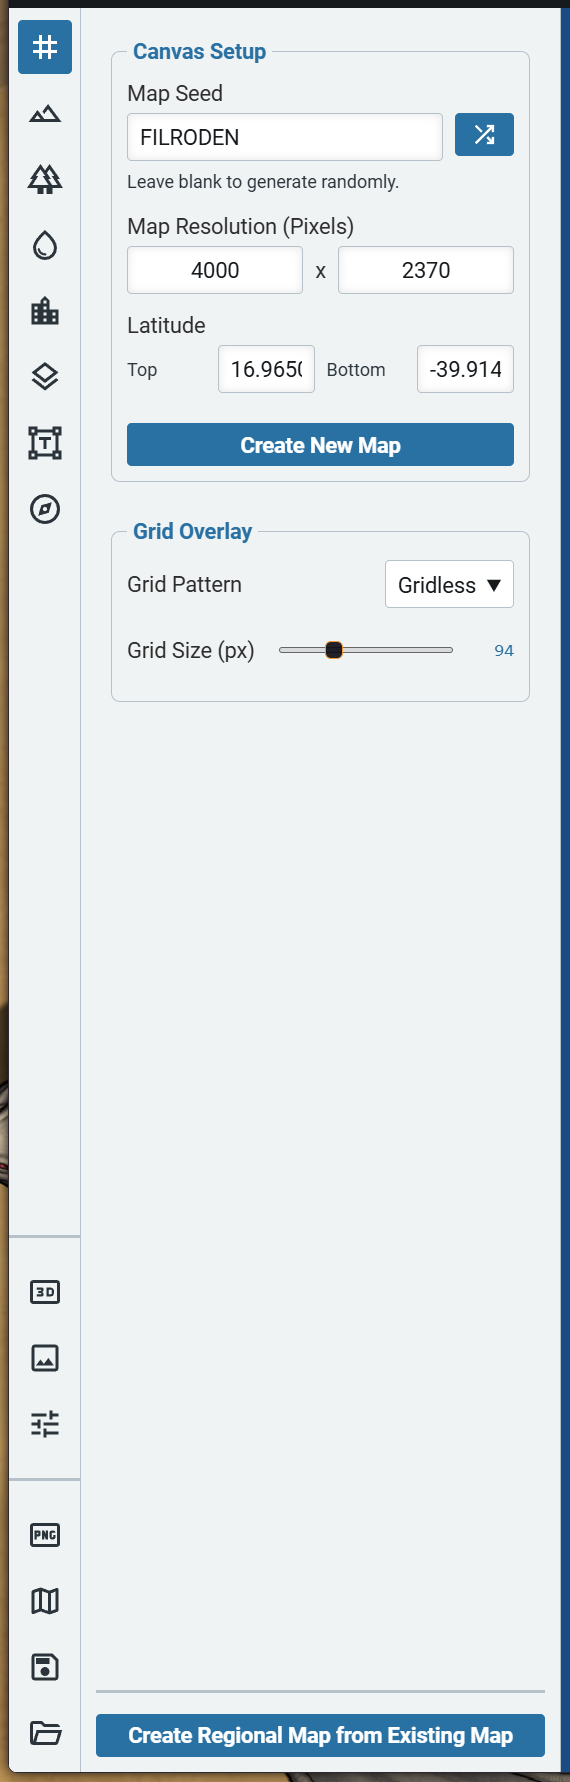
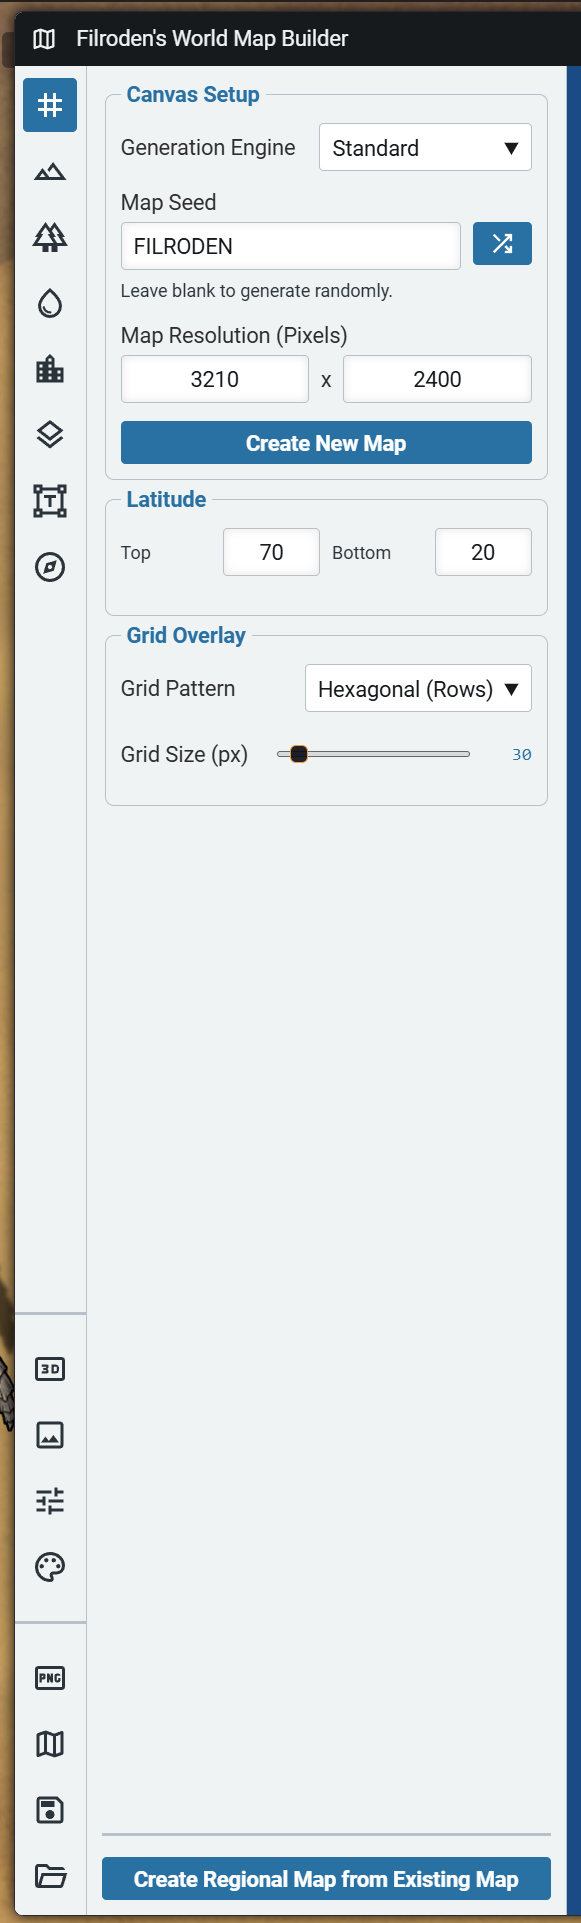
Improvement: feature count added to custom styles
Docs: updated screenshots for Wiki

Changed region(s): [[0.0, 0.0, 1.0, 1.0]]

diff --git a/src/applications/MapDialogManager.js b/src/applications/MapDialogManager.js
@@ -284,6 +284,17 @@ export class MapDialogManager {
                     app.mapRoutes.forEach(disconnectAttached);
                     app.regionLayers.forEach((layer) => layer.regions.forEach(disconnectAttached));
                 },
+                // Mirrors onDisconnect's traversal (standalone Custom Labels, plus the attached
+                // `.label` sub-object every pin/route/region carries) but tallies matches instead
+                // of resetting them - powers the usage count shown on this style's card.
+                getUsageCount: (app, id) => {
+                    let count = app.mapLabels.filter((lbl) => lbl.quickStyle === id).length;
+                    const isAttachedMatch = (ent) => ent.label && ent.label.quickStyle === id;
+                    count += app.mapPins.filter(isAttachedMatch).length;
+                    count += app.mapRoutes.filter(isAttachedMatch).length;
+                    for (const layer of app.regionLayers) count += layer.regions.filter(isAttachedMatch).length;
+                    return count;
+                },
                 onUpdateActiveUI: (app, result) => {
                     app.uiState.labelFontFamily = result.fontFamily;
                     app.uiState.labelFontSize = result.fontSize;
@@ -326,6 +337,7 @@ export class MapDialogManager {
                 onDisconnect: (app, id) => {
                     for (const route of app.mapRoutes) if (route.quickStyle === id) route.quickStyle = "custom";
                 },
+                getUsageCount: (app, id) => app.mapRoutes.filter((route) => route.quickStyle === id).length,
                 onUpdateActiveUI: (app, result) => {
                     app.uiState.routeColor = result.color;
                     app.uiState.routeThickness = result.thickness;
@@ -381,6 +393,8 @@ export class MapDialogManager {
                         });
                     });
                 },
+                getUsageCount: (app, id) =>
+                    app.regionLayers.reduce((sum, layer) => sum + layer.regions.filter((region) => region.quickStyle === id).length, 0),
                 onUpdateActiveUI: (app, result) => {
                     app.uiState.regionFillColor = result.fillColor;
                     app.uiState.regionFillStyle = result.fillStyle;

diff --git a/src/applications/MapStudioApp.js b/src/applications/MapStudioApp.js
@@ -368,9 +368,20 @@ export class MapStudioApp extends HandlebarsApplicationMixin(ApplicationV2) {
             isCustom: true,
         }));
 
-        context.customRouteStyles = [...(this.uiState.customRouteStyles || [])].sort(alphaSort);
-        context.customLabelStyles = [...(this.uiState.customLabelStyles || [])].sort(alphaSort);
-        context.customRegionStyles = [...(this.uiState.customRegionStyles || [])].sort(alphaSort);
+        // Decorates a sorted quick-style list with how many features on this map are currently
+        // using each entry, via that type's QUICK_STYLE_CONFIG.getUsageCount - the same
+        // traversal onDisconnect uses when a style is deleted, just counting instead of resetting.
+        const withUsageCount = (config) => (style) => ({ ...style, usageCount: config.getUsageCount(this, style.id) });
+
+        context.customRouteStyles = [...(this.uiState.customRouteStyles || [])]
+            .sort(alphaSort)
+            .map(withUsageCount(MapDialogManager.QUICK_STYLE_CONFIG.Route));
+        context.customLabelStyles = [...(this.uiState.customLabelStyles || [])]
+            .sort(alphaSort)
+            .map(withUsageCount(MapDialogManager.QUICK_STYLE_CONFIG.Label));
+        context.customRegionStyles = [...(this.uiState.customRegionStyles || [])]
+            .sort(alphaSort)
+            .map(withUsageCount(MapDialogManager.QUICK_STYLE_CONFIG.Region));
 
         if (partId === "context") {
             context.toolPartial = `modules/filrodens-world-map-builder/templates/tools-${this.activeTool}.hbs`;

diff --git a/VERSION.md b/VERSION.md
@@ -2,7 +2,7 @@
 
 | Version | Changes |
 | :--- | :--- |
-| **Version 2.2.0** | **FEATURES**<br>- **Custom Infrastructure Pins:** Introduced two new settings to disable built-in infratructure pin icons, and register your own. Icons must be SVG format and be solid white on transparent backgrounds.<br>- **Region Quick Styles:** You can now add, edit, or delete custom Quick Styles for regions in the Settings, matching the existing options for routes and labels. Updating a Quick Style applies the changes to every region using it. Deleting a Quick Style converts affected regions to a custom configuration to preserve their appearance.<br>- **Mass Edit:** Points of interest, routes, regions, and custom labels can now be batch-edited. Enable Select in a panel's header, tick the items you want to change, then use Mass Edit to apply visual changes to all of them at once, including assigning a Quick Style and, for points of interest, routes, and regions, the styling of their attached label. Only the properties you tick are changed; everything else is left as it was.<br>- **Save Styles:** Custom biomes and quick styles (routes, regions or labels) can  all be exported and imported allowing you to use them on other maps or share them with other users.<br><br>**IMPROVEMENTS**<br>- Split the existing Settings tool into two. The new Settings tool focuses on map default values, and the new Style Library tool focuses on styles and the new Save Styles tool.<br><br>**BUG FIXES**<br>- The saved journal page now shows which terrain generation engine created the map (Standard, Flat, Advanced, or Guided), along with that engine's own settings. This was a visual bug only. This fix only affects maps saved after this update; existing saves pick up the new summary the next time you save them.<br>- Biomes painted with the Biome brush, other than the two water biomes or Pack Ice, were not surviving a map being reopened, silently reverting to whatever biome the automatic terrain calculation produced for that tile instead. Custom biomes were affected too. Your original brush strokes were never actually lost, so affected maps will show their correct painted biomes again as soon as they're reopened.<br><br>**UNDER THE HOOD**<br>- Regions saved before this update are marked as not using a Quick Style on load, so their existing appearance is left untouched rather than being attached to a preset.<br>- Fixed a missing argument in `ProceduralOrchestrator.rebuildFromHistory`'s call into `BrushEngine.replayHistory`, which caused the active rebuild bounds to be passed into the `seaLevel` parameter instead, corrupting the land/water check used by biome-layer strokes during replay. Also restored the active bounds parameter that was never being forwarded into the per-stroke stamping loop, laying the groundwork for future bounded/partial history replay work. |
+| **Version 2.2.0** | **FEATURES**<br>- **Custom Infrastructure Pins:** Introduced two new settings to disable built-in infratructure pin icons, and register your own. Icons must be SVG format and be solid white on transparent backgrounds.<br>- **Region Quick Styles:** You can now add, edit, or delete custom Quick Styles for regions in the Settings, matching the existing options for routes and labels. Updating a Quick Style applies the changes to every region using it. Deleting a Quick Style converts affected regions to a custom configuration to preserve their appearance.<br>- **Mass Edit:** Points of interest, routes, regions, and custom labels can now be batch-edited. Enable Select in a panel's header, tick the items you want to change, then use Mass Edit to apply visual changes to all of them at once, including assigning a Quick Style and, for points of interest, routes, and regions, the styling of their attached label. Only the properties you tick are changed; everything else is left as it was.<br>- **Save Styles:** Custom biomes and quick styles (routes, regions or labels) can  all be exported and imported allowing you to use them on other maps or share them with other users.<br><br>**IMPROVEMENTS**<br>- Split the existing Settings tool into two. The new Settings tool focuses on map default values, and the new Style Library tool focuses on styles and the new Save Styles tool.<br>- Route, Region, and Label Quick Styles in the Style Library now show how many features on the current map are using each style, so you can tell at a glance whether one is safe to delete.<br><br>**BUG FIXES**<br>- The saved journal page now shows which terrain generation engine created the map (Standard, Flat, Advanced, or Guided), along with that engine's own settings. This was a visual bug only. This fix only affects maps saved after this update; existing saves pick up the new summary the next time you save them.<br>- Biomes painted with the Biome brush, other than the two water biomes or Pack Ice, were not surviving a map being reopened, silently reverting to whatever biome the automatic terrain calculation produced for that tile instead. Custom biomes were affected too. Your original brush strokes were never actually lost, so affected maps will show their correct painted biomes again as soon as they're reopened.<br><br>**UNDER THE HOOD**<br>- Regions saved before this update are marked as not using a Quick Style on load, so their existing appearance is left untouched rather than being attached to a preset.<br>- Fixed a missing argument in `ProceduralOrchestrator.rebuildFromHistory`'s call into `BrushEngine.replayHistory`, which caused the active rebuild bounds to be passed into the `seaLevel` parameter instead, corrupting the land/water check used by biome-layer strokes during replay. Also restored the active bounds parameter that was never being forwarded into the per-stroke stamping loop, laying the groundwork for future bounded/partial history replay work. |
 | **Version 2.1.0** | **FEATURES**<br>- **Terrain Generation Engines:** Introduced a dropdown to select between four terrain generation engines: Standard, Flat, Advanced and Guided. Legacy maps default to Standard to preserve existing saves.<br>- **Standard Terrain Engine:** This was the only method available before this update. The Standard generator creates an infinite surface and shows a small window as the base map, meaning you can pan and zoom to discover new terrain not visible initially.<br>- **Advanced Terrain Engine (Tectonic):** Generates a fixed-size map, meaning infinite pan and zoom controls are disabled. It first calculates where land can occur and forces all other areas to be deep ocean to create highly natural continents. It then generates tectonic plates to define distinct landmasses and simulates how plate collisions distort the landscape, before layering on a detailed terrain model. All of these steps can be fine-tuned by the user after the initial map is generated.<br>- **Guided Terrain Engine (Tectonic):** Generates procedural terrain using a similar model as Advanced mode inside polygons drawn by the user.<br>- **Flat Terrain Engine:** Generates a flat, sea-level landmass with no initial procedural rivers. Designed as a blank slate for manual brush sculpting.<br><br>**UNDER THE HOOD**<br>- Implemented a ProceduralOrchestrator to decouple terrain, climate, and feature generation logic from the main application controller.<br>- Added a buffer around the canvas where vector nodes can be dropped to allow lines and regions to be drawn outside the visible boundary of the canvas.<br>- Added a mask to hide anything drawn in the buffer area unless edit mode is active.<br>- Defined more magic numbers in `config.js`. |
 | **Version 2.0.0** | **BREAKING CHANGES**<br>Fixed an issue where orographic lift (rain shadows) was not being calculated using modified terrain and applied a fixed distance regardless of map resolution or scale. Procedurally generated biomes will look different on existing maps that have had their terrain modified (via the terrain brush, custom rivers, or tectonic faults).<br><br>Maps with minimal terrain changes will see minor differences, while maps with hand-drawn mountain ranges will see more accurate rain shadows. <br><br>Additionally, regional maps will now properly scale their climate patterns to ensure biomes remain visually consistent with their parent world maps.<br><br>**FEATURES**<br>- **Targeted Terrain and Biome Updating:** Only the area around a terrain or biome edit will be updated procedurally, leaving the rest of the map unchanged. This reduces the time taken to recalculate terrain and biomes when using the terrain or biome brush tools, or when adding custom rivers or tectonic faults. Loading the map will still require a full regeneration, but subsequent edits should feel faster.<br>- **Quick Styles for Labels:** You can add, edit, or delete custom Quick Styles in the Settings. Updating a Quick Style applies the changes to every label using it. Deleting a Quick Style converts affected labels to a custom configuration to preserve their appearance.<br>- **Undo/Redo Highlighting:** Hovering over the undo or redo button will show which area of the map and what type of feature will be changed if you press it. The Undo/Redo buttons have been moved to the top right of the canvas where they are always visible, even when not in edit mode. You can also use the standard Undo/Redo keyboard shortcuts (for Windows undo is `Ctrl + Z` and redo is `Ctrl + Y` or `Ctrl + Shift + Z`).<br>- **New Mouse Action: Double-Click:** Double-clicking any interactable feature on the map (infrastructure pins, route and region nodes, etc.) opens its edit dialogue.<br>- **Global Undo/Redo History:** A unified undo/redo history now steps through all changes in order, regardless of the active tool. Previously, raster edits (terrain, biomes) and vector edits (pins, routes, labels) used independent histories.<br>- **Toggle Live Terrain Generation:** Added a button to the edit toolbar for the Feature tool to toggle live terrain generation. When disabled, a second button allows pending terrain changes to be applied manually. This makes drawing river or fault lines easier.<br><br>**IMPROVEMENTS**<br>- Features that automatically generate labels now include label properties within their main edit dialogue.<br>- Labels now support a maximum width (0 for unlimited), which enables word wrapping. Text justification (left, centre, or right) is also supported.<br>- Colour pickers with pre-defined palettes now use a standard dropdown for swatches, alongside an "Other..." button for custom colours.<br>- Added new icons for infrastructure pins.<br>- The Edit Pin dialogue now displays a visual grid of pin icons instead of a text list.<br>- The UI now locks and displays an in-progress indicator while generating terrain, biomes, or managing files.<br>- Reduced grid line opacity.<br>- Journal map pins created during the export scene process will now be scaled between 32px (Foundry's minimum) and 96px depending on the map's resolution.<br>- Lower resolution exported maps (PNG or scene) are now dynamically over-sampled to make labels and icons sharper. Oversampling is scaled between 2x and 1x, depending on the map width.<br>- The moisture scale slider is no longer infintely precise! It will now only show values in steps of 10.<br><br>**BUG FIXES**<br>- Fixed an issue where infrastructure icons were not being included in maps during the scene export process.<br>- Fixed an issue where the map would not work when the module was detached from Foundry and the window was maximised.<br>- Fixed an issue when the module was detatched from Foundry. A map would stall while it generated topography and it would not move on to the next stage of the generation process unless the window was reattached to the Foundry window.<br>- Changing climate, terrain, grid, or biome colours now correctly marks the map as modified, prompting a save warning before closing or loading a new map.<br>- Grid visibility state now saves correctly with the map.<br>- Fixed an issue where legacy routes from earlier versions were missing style properties.<br>- Fixed an issue where switching between the terrain and climate tools would not reset the active brush tool.<br>- Fixed an issue where discarding changes on a map and reloading the same map still showed those changes. This was an issue with the cache and did not affect the saved map.<br>- Fixed an issue where the grid for a loaded map would use the map dimensions from the previous map (if different).<br><br>**UNDER THE HOOD**<br>- **MapStudioApp Refactor:** Extracted hard-coded constants to `FILRODENSWMB`. Refactored `MapStudioApp` into a strict UI manager, introducing new classes for spatial maths, state management, dialogue management, and regional map generation. Most UI elements are entirely driven by the data model, reducing the need to directly manipulate the DOM. Some DOM manipulation is retained for map controls and undo/redo buttons to avoid re-rendering the map canvas and destroying the PIXI container.<br>- **StudioCanvas Refactor:** Separated terrain features (river source pins, procedural rivers, custom rivers, and fault lines) into dedicated graphics layers.<br>- **Performance Improvement: Orographic Lift Resampling** Climate engine updated to read the `elevationData` array rather then recalculate it a second time for each pixel.<br>- **Performance Improvement: Boundary Sorting in Basin Filling** Added a `MinHeap` (priority queue) to improve generation of lakes.<br>- **Performance Improvement: String-Keyed Sets in Hydrology** Replace the use of string literals with a generation-stamped `Uint32Array`, reducing the memory footprint of river tracing. |
 | **Version 1.2.0** | **FEATURES**<br>- **Custom Rivers:** Added a line tool to the Features tab to draw custom rivers. The engine places a river source at the highest point of the drawn line and carves a continuous downhill channel. The tool will cut gorges through any higher terrain in its path and drop to form waterfalls over cliffs.<br><br>**IMPROVEMENTS**<br>- Regional maps can now be cloned as new standalone master maps, rather than solely as regional children of another map.<br>- Using `Ctrl + Left Click` will now let you delete an infrastructure pin.<br>- Deleting custom rivers, faults, infrastructure pins, routes, region layers, labels and decorations now require a confirmation.<br>- Removed nodes snapping to infrastructure pins, allowing precise placement of lines and regions.<br>- Vector node sizes remain fixed when zooming the canvas.<br>- Nodes can now be placed closer together.<br>- Left-clicking near a node while drawing a vector line no longer ends the line. Only right-clicking will end the line (except regions where clicking the starting node will close the polygon).<br>- Scrolling lists now remember their position.<br>- Zooming to a feature also now pulses a bounding box around it to help you spot it on the map.<br>- Labels for new routes will now default to font size 0.5 and be set to hidden. Both can be changed in the Label tool.<br>- The list of tectonic faults will now be sorted alphabetically in the Terrain Features tool.<br><br>**BUG FIXES**<br>- Fixed custom biomes and quick styles not being re-added to the UI when loading a map.<br>- Fixed custom biomes not being reapplied to an area when its elevation has been changed using a terrain brush.<br>- Fixed an issue where tectonic fault lines would not reset when creating a new map.<br>- Tectonic fault lines will now be included when creating regional maps.<br><br>**UNDER THE HOOD**<br>- **Hydrology Engine:** Implemented a monotonic downhill carve algorithm to process custom river routes. The engine evaluates the drawn spline sequentially and mathematically enforces a continuous downward gradient. This ensures the river slices cleanly through mountains and drops into valleys without accidentally raising the surrounding terrain to form aqueducts. A quadratic falloff is then applied to blend the newly carved riverbanks seamlessly into the existing topography.<br>- **Vector Architecture:** Refactored the spatial node lifecycle (insertion, deletion, and termination) for all linear tools into a unified, data-driven registry pattern. This consolidates the interaction mathematics for rivers, faults, and routes into a single generic handler, removing repetitive conditional branches.<br>- **Parameter Configuration:** Consolidated the procedural engine's parameter generation into a single derived method, eliminating duplicate configuration logic and preventing architectural drift between local UI state updates and regional map extraction.<br>- **Entity Deletion Lifecycle:** Expanded the data-driven registry pattern to manage entity deletions. Seven distinct deletion methods have been unified into a single generic handler. |
